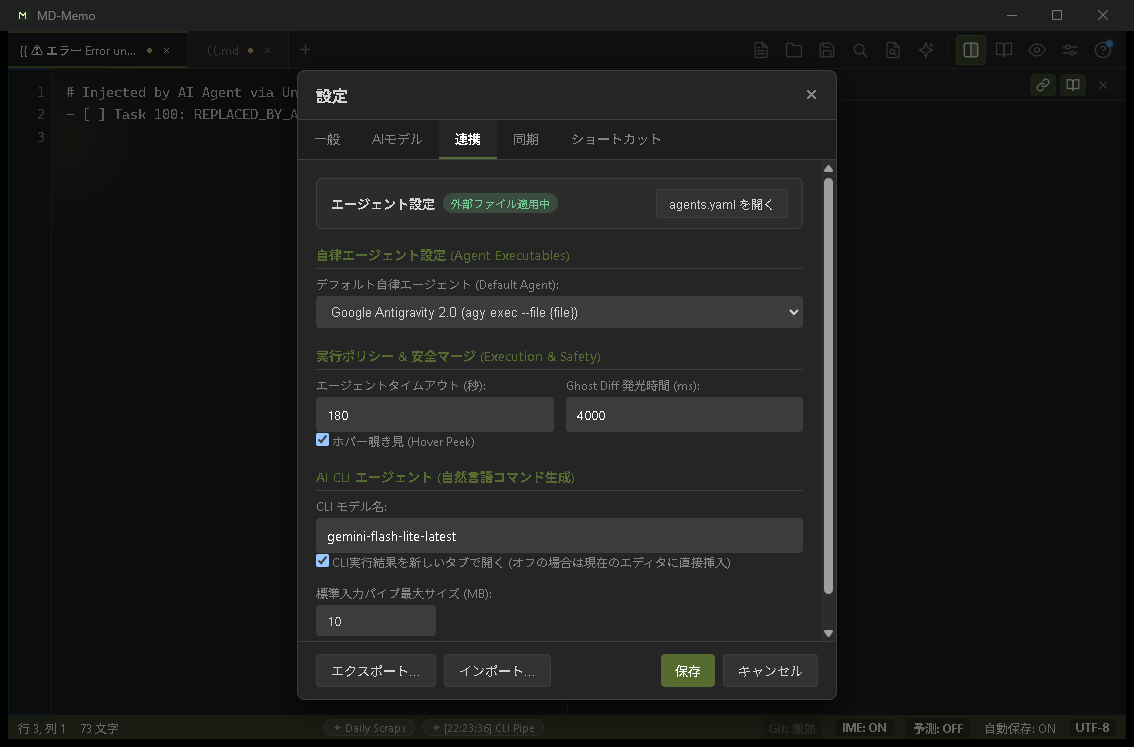
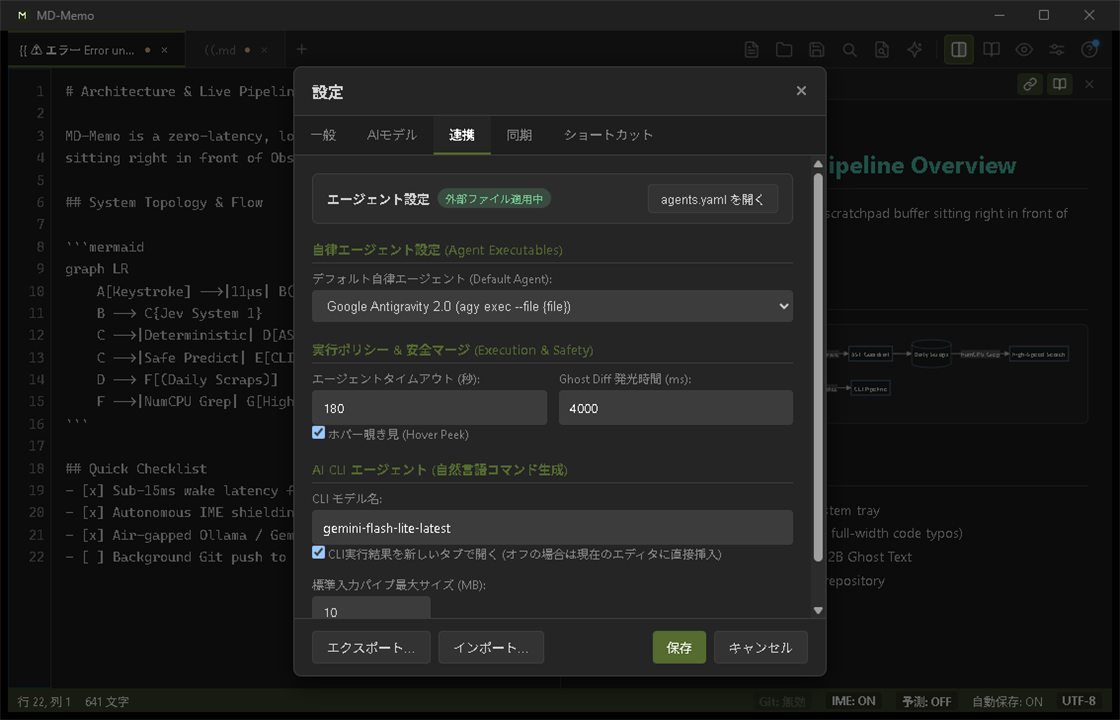
fix(docs): normalize screenshot dimensions to 1120x720 and fix command palette capture

diff --git a/tools/demo.md b/tools/demo.md
@@ -1,0 +1,21 @@
+# Architecture & Live Pipeline Overview
+
+MD-Memo is a zero-latency, local-first scratchpad buffer sitting right in front of Obsidian and Notion.
+
+## System Topology & Flow
+
+```mermaid
+graph LR
+    A[Keystroke] -->|11µs| B(IME Guardian)
+    B --> C{Jev System 1}
+    C -->|Deterministic| D[AST Guardrail]
+    C -->|Safe Predict| E[CLI Pipeline]
+    D --> F[(Daily Scraps)]
+    F -->|NumCPU Grep| G[High-Speed Search]
+```
+
+## Quick Checklist
+- [x] Sub-15ms wake latency from system tray
+- [x] Autonomous IME shielding (zero full-width code typos)
+- [x] Air-gapped Ollama / Gemma 4 E2B Ghost Text
+- [ ] Background Git push to remote repository
